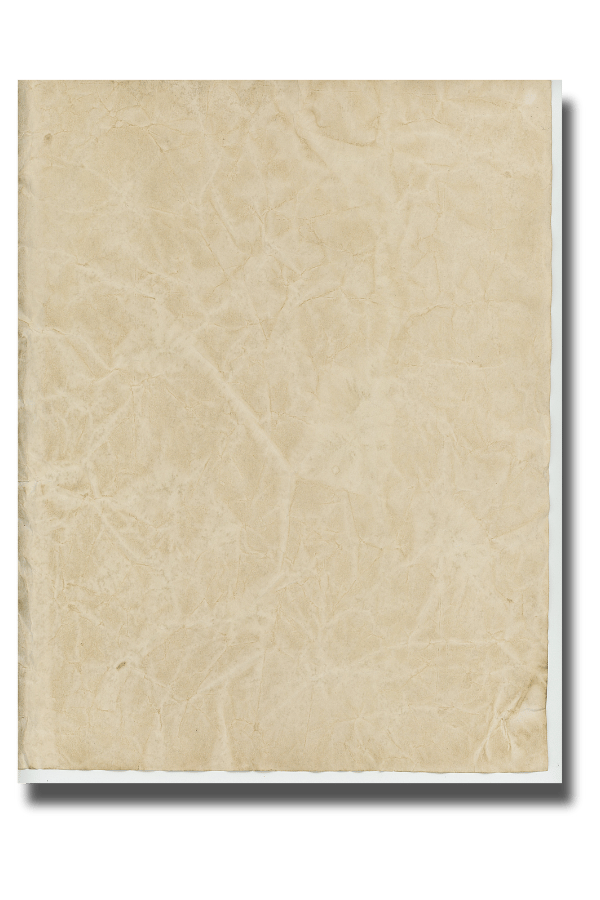
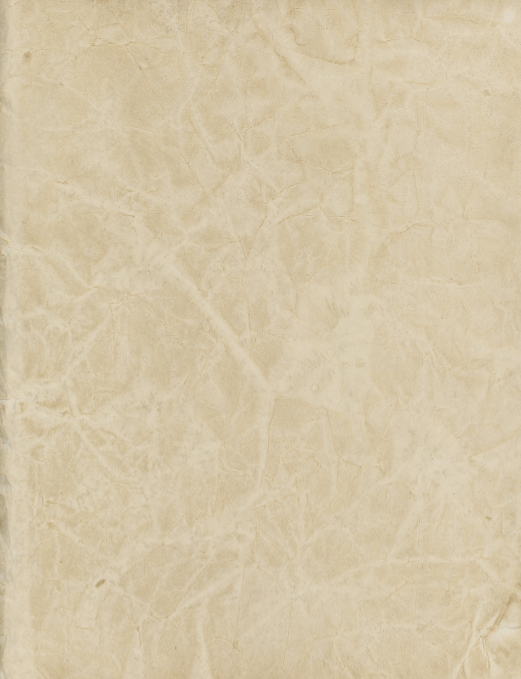
Feat: Replace image animation with video entrance

diff --git a/tailwind.config.ts b/tailwind.config.ts
@@ -1,16 +1,22 @@
 import type { Config } from "tailwindcss";
 
 const config: Config = {
+  // @ts-ignore - This is a valid property, but the project's type definitions are not picking it up.
+  safelist: [
+    'prose-lg',
+    'prose-xl',
+    'prose-2xl',
+  ],
   content: [
     "./src/pages/**/*.{js,ts,jsx,tsx,mdx}",
     "./src/components/**/*.{js,ts,jsx,tsx,mdx}",
     "./src/app/**/*.{js,ts,jsx,tsx,mdx}",
   ],
   theme: {
-    // We no longer need to extend the fontFamily here.
-    // The font is now handled directly by the className from next/font.
     extend: {},
   },
-  plugins: [],
+  plugins: [
+    require('@tailwindcss/typography'),
+  ],
 };
 export default config;
